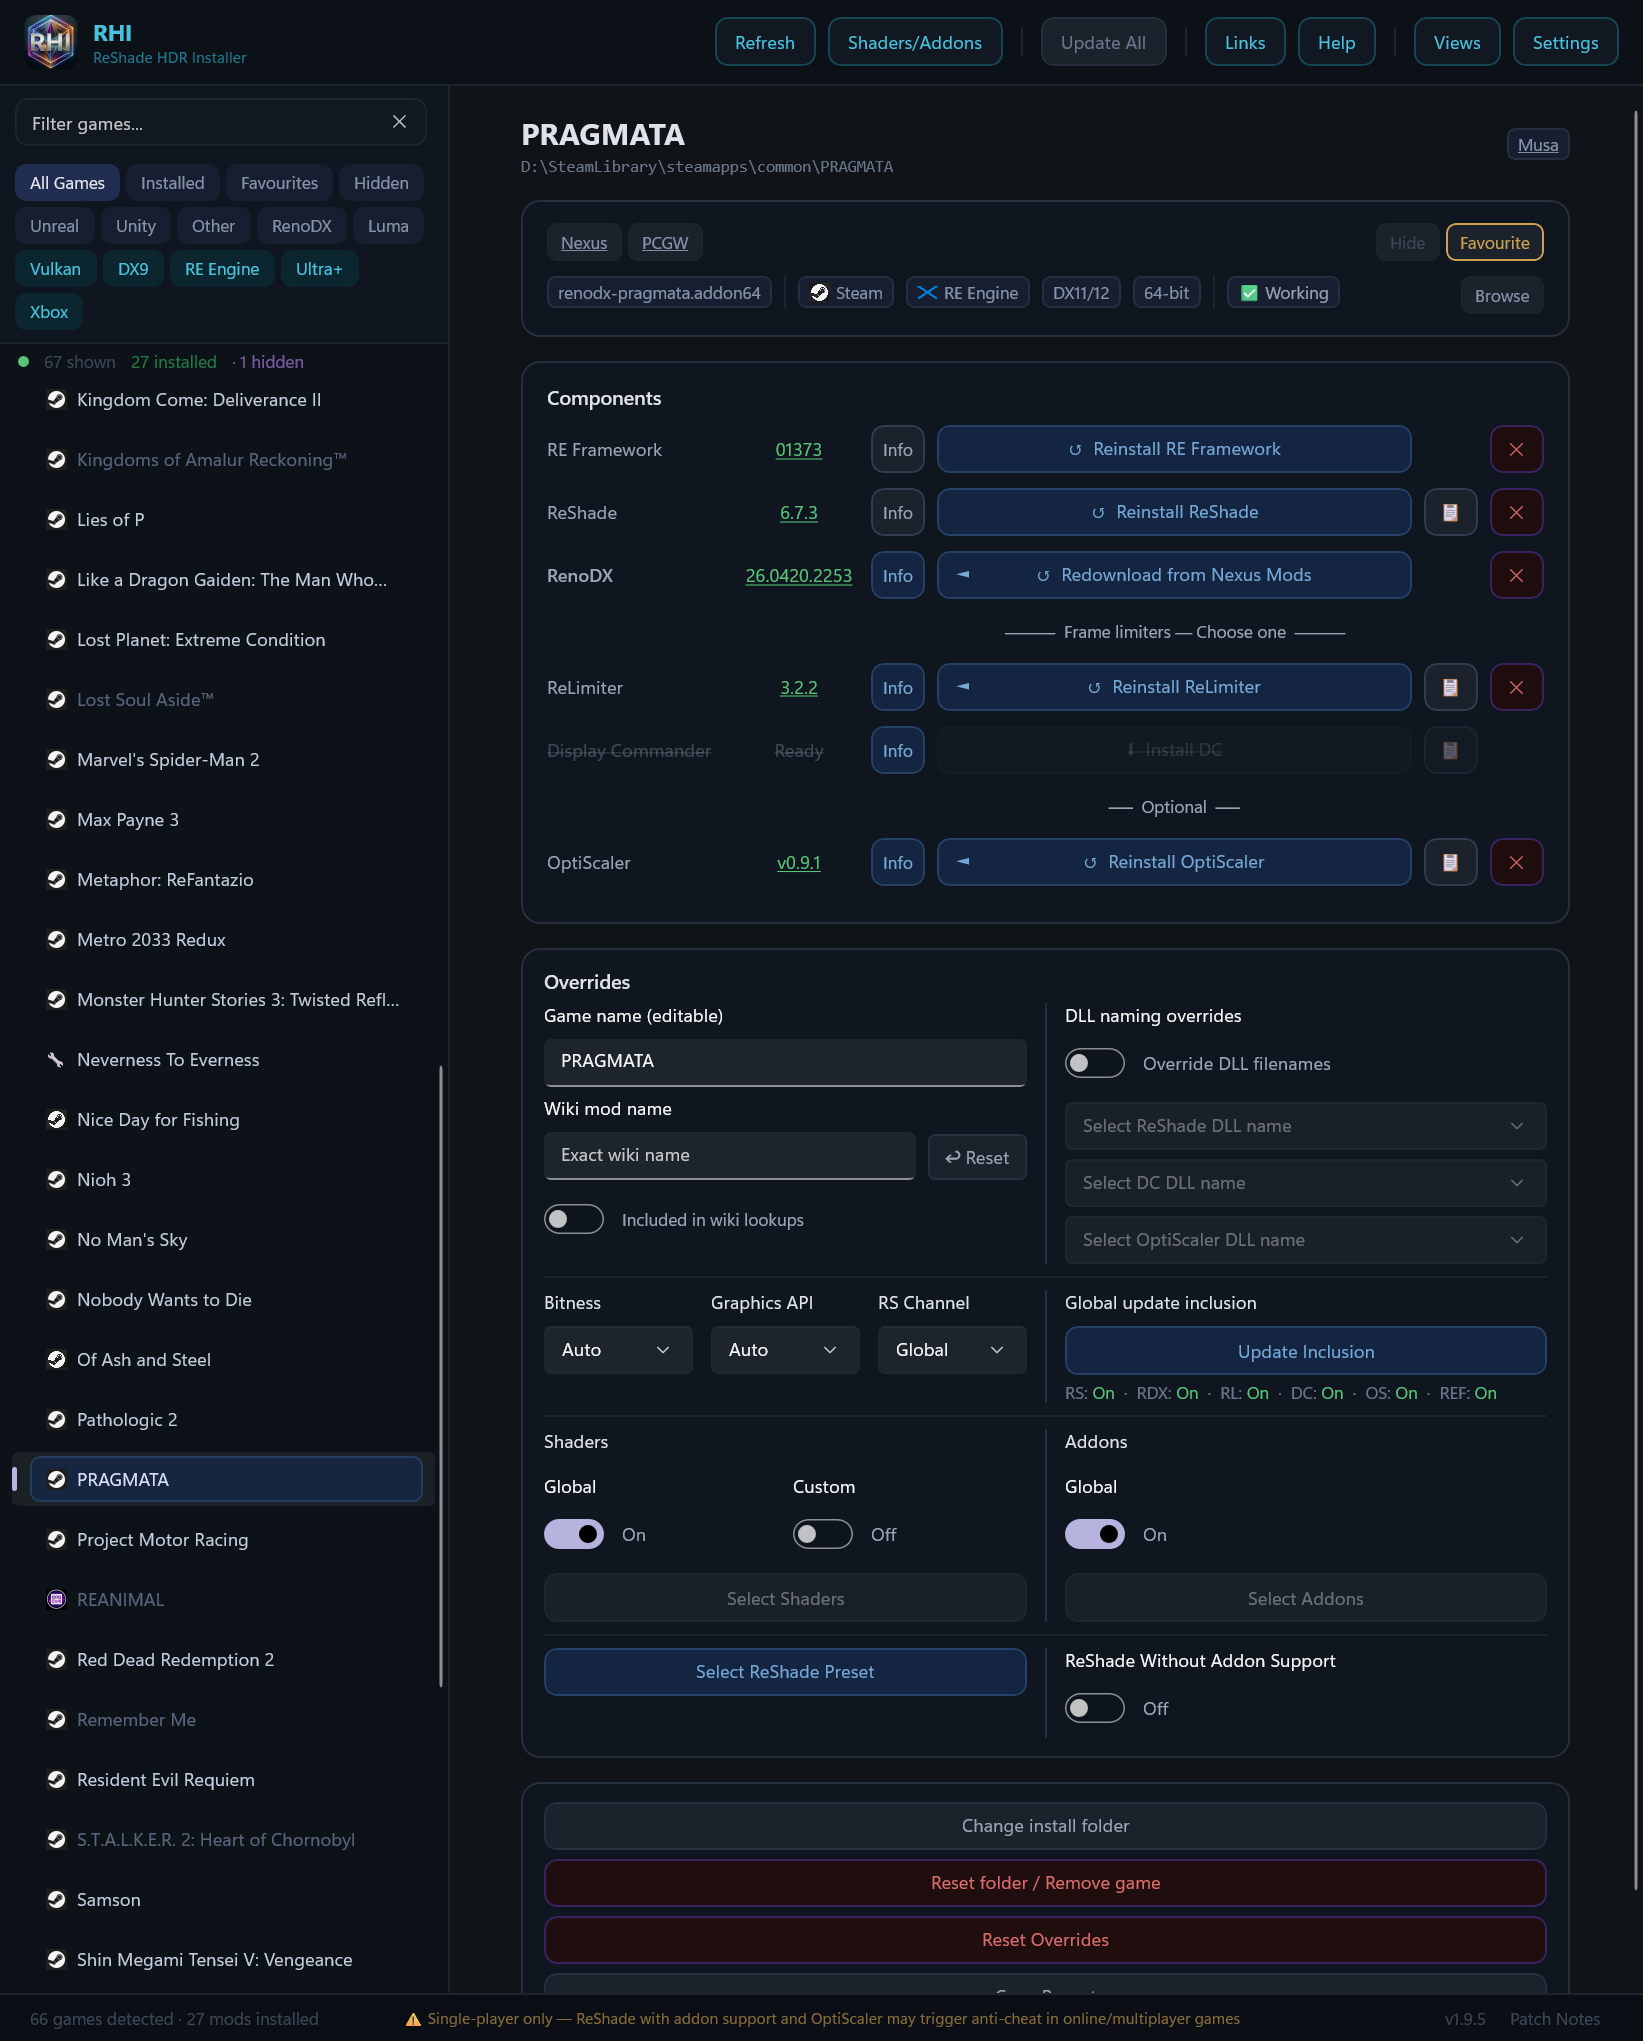
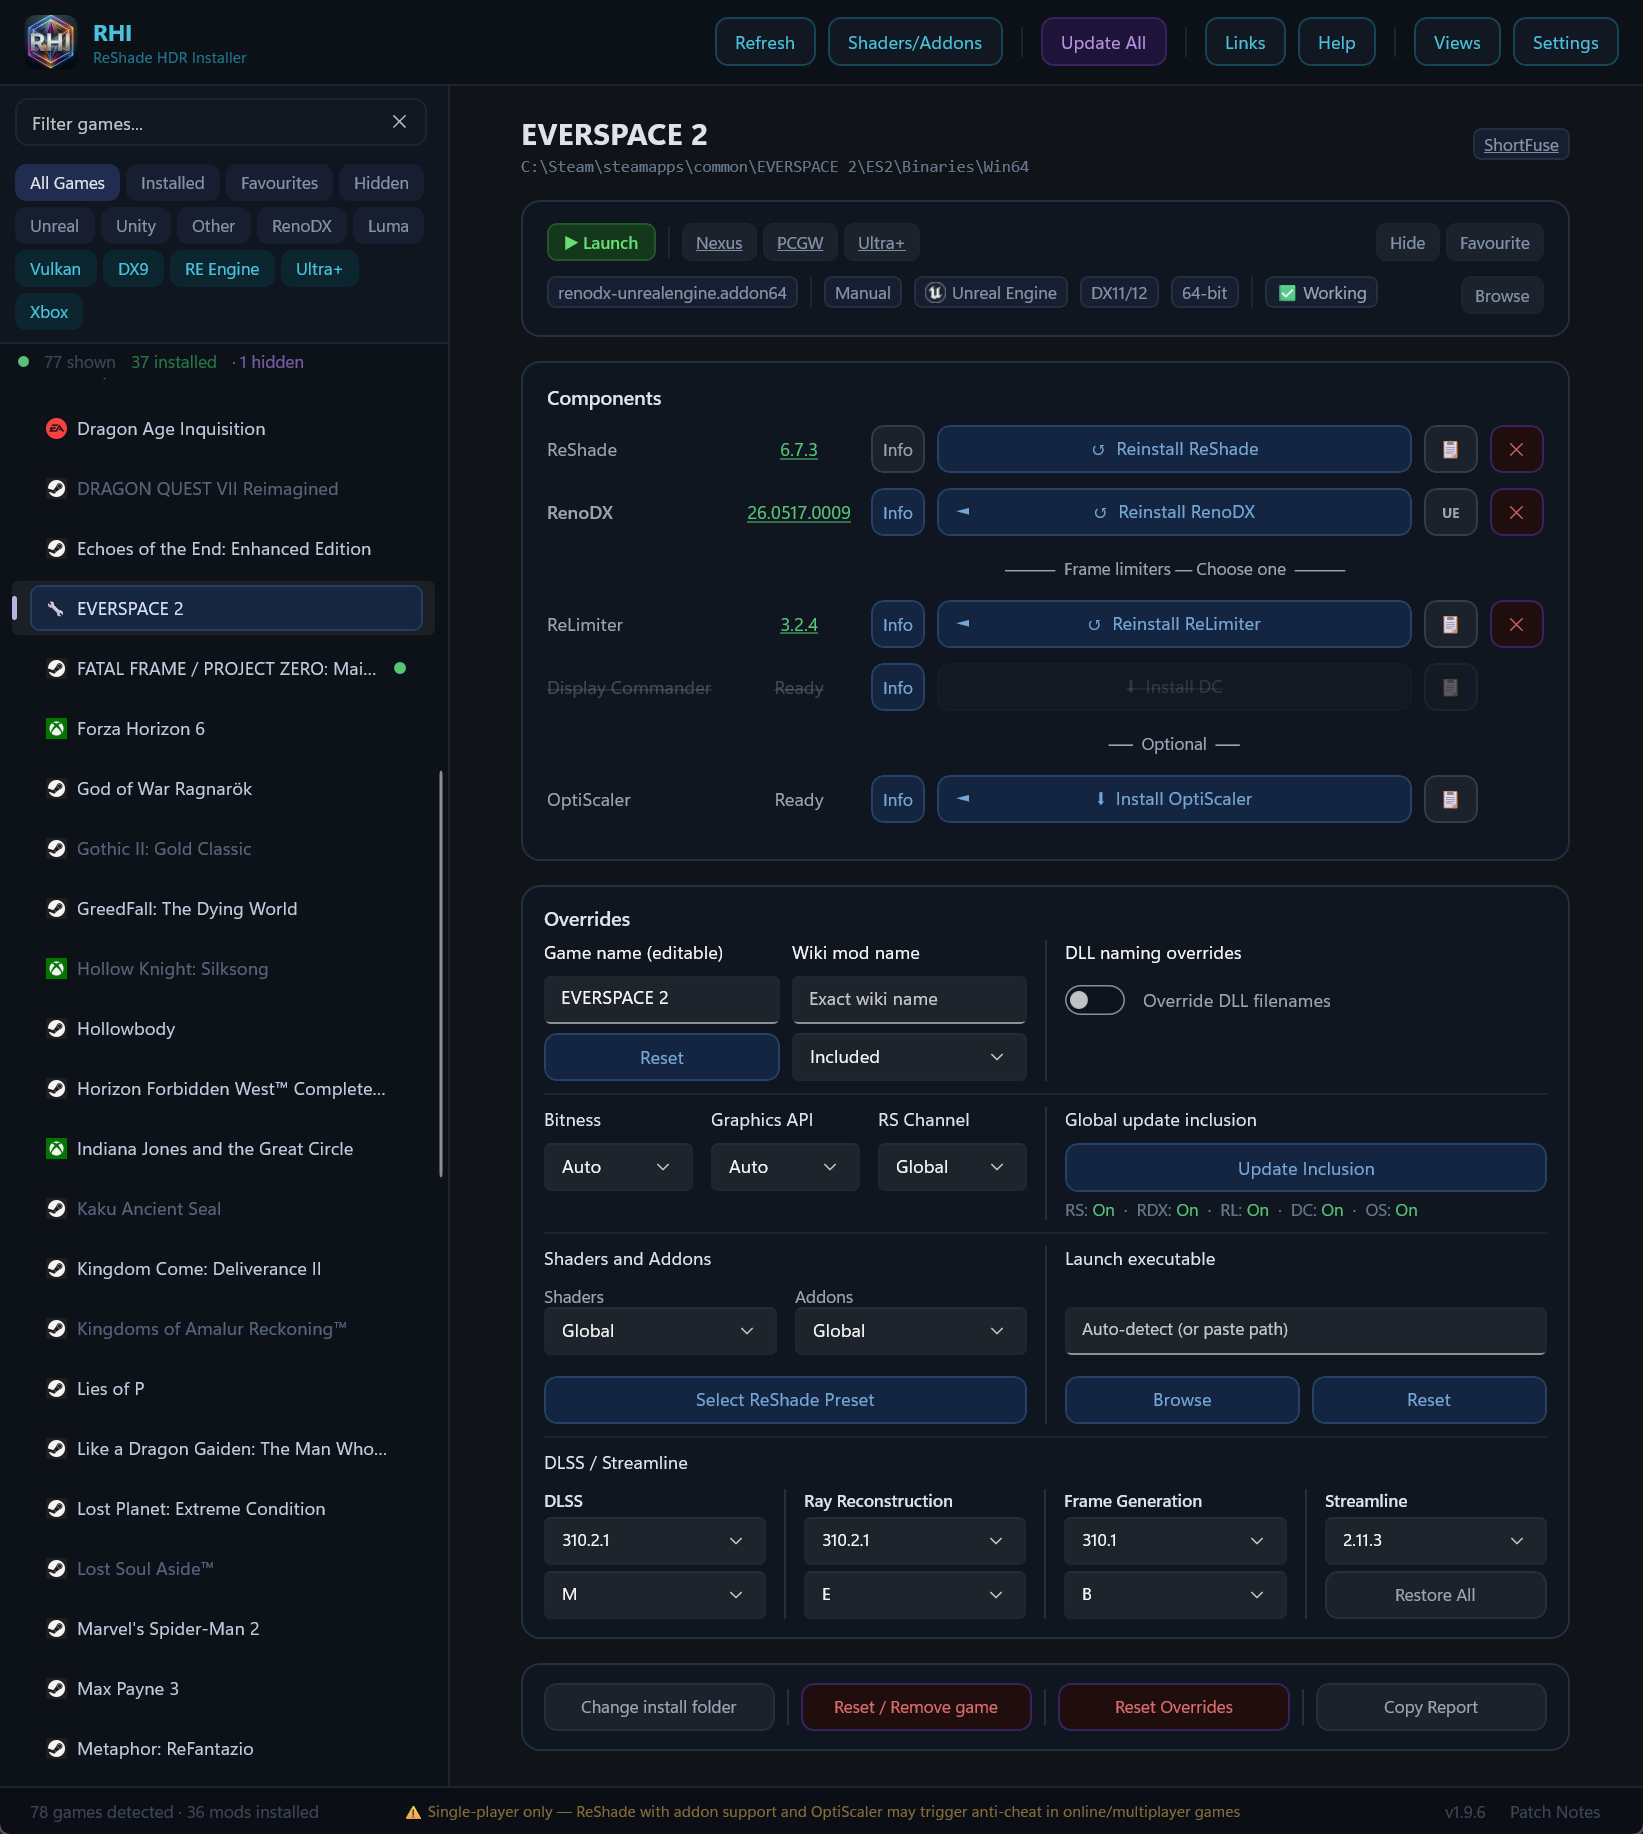
Fix: update exclusion respected, debounce fix, docs updated with DLSS feature

diff --git a/RenoDXCommander/MainWindow.xaml.cs b/RenoDXCommander/MainWindow.xaml.cs
@@ -300,30 +300,8 @@ public sealed partial class MainWindow : Window
                     ScrollToCard(card);
                     break;
                 case ViewLayout.Detail:
-                    // Debounce detail panel rebuild — wait 80ms after last selection change
-                    _pendingSelectionCard = card;
-                    if (_selectionDebounceTimer == null)
-                    {
-                        _selectionDebounceTimer = new DispatcherTimer { Interval = TimeSpan.FromMilliseconds(150) };
-                        _selectionDebounceTimer.Tick += (s, ev) =>
-                        {
-                            _selectionDebounceTimer.Stop();
-                            var target = _pendingSelectionCard;
-                            if (target != null && target == ViewModel.SelectedGame)
-                            {
-                                PopulateDetailPanel(target);
-                                DetailPanel.Visibility = Visibility.Visible;
-                                BuildOverridesPanel(target);
-                                OverridesContainer.Visibility = Visibility.Visible;
-                                ManagementContainer.Visibility = Visibility.Visible;
-                            }
-                        };
-                    }
-                    _selectionDebounceTimer.Stop();
-                    _selectionDebounceTimer.Start();
-                    break;
                 case ViewLayout.Compact:
-                    // Debounce compact page rebuild — same pattern as Detail mode
+                    // Debounce panel rebuild for both Detail and Compact modes
                     _pendingSelectionCard = card;
                     if (_selectionDebounceTimer == null)
                     {
@@ -334,8 +312,19 @@ public sealed partial class MainWindow : Window
                             var target = _pendingSelectionCard;
                             if (target != null && target == ViewModel.SelectedGame)
                             {
-                                _compactViewBuilder?.RebuildCurrentPage(
-                                    target, ViewModel.CompactPageIndex);
+                                if (ViewModel.CurrentViewLayout == ViewLayout.Detail)
+                                {
+                                    PopulateDetailPanel(target);
+                                    DetailPanel.Visibility = Visibility.Visible;
+                                    BuildOverridesPanel(target);
+                                    OverridesContainer.Visibility = Visibility.Visible;
+                                    ManagementContainer.Visibility = Visibility.Visible;
+                                }
+                                else if (ViewModel.CurrentViewLayout == ViewLayout.Compact)
+                                {
+                                    _compactViewBuilder?.RebuildCurrentPage(
+                                        target, ViewModel.CompactPageIndex);
+                                }
                             }
                         };
                     }

diff --git a/RenoDXCommander/ViewModels/MainViewModel.Init.cs b/RenoDXCommander/ViewModels/MainViewModel.Init.cs
@@ -392,19 +392,19 @@ public partial class MainViewModel
             {
                 if (prevUpdateStatus.TryGetValue(c.GameName, out var prev))
                 {
-                    if (prev.mod == GameStatus.UpdateAvailable && c.Status == GameStatus.Installed)
+                    if (prev.mod == GameStatus.UpdateAvailable && c.Status == GameStatus.Installed && !c.ExcludeFromUpdateAllRenoDx)
                         c.Status = GameStatus.UpdateAvailable;
-                    if (prev.rs == GameStatus.UpdateAvailable && c.RsStatus == GameStatus.Installed)
+                    if (prev.rs == GameStatus.UpdateAvailable && c.RsStatus == GameStatus.Installed && !c.ExcludeFromUpdateAllReShade)
                         c.RsStatus = GameStatus.UpdateAvailable;
-                    if (prev.dc == GameStatus.UpdateAvailable && c.DcStatus == GameStatus.Installed)
+                    if (prev.dc == GameStatus.UpdateAvailable && c.DcStatus == GameStatus.Installed && !c.ExcludeFromUpdateAllDc)
                         c.DcStatus = GameStatus.UpdateAvailable;
-                    if (prev.ul == GameStatus.UpdateAvailable && c.UlStatus == GameStatus.Installed)
+                    if (prev.ul == GameStatus.UpdateAvailable && c.UlStatus == GameStatus.Installed && !c.ExcludeFromUpdateAllUl)
                         c.UlStatus = GameStatus.UpdateAvailable;
-                    if (prev.refFw == GameStatus.UpdateAvailable && c.RefStatus == GameStatus.Installed)
+                    if (prev.refFw == GameStatus.UpdateAvailable && c.RefStatus == GameStatus.Installed && !c.ExcludeFromUpdateAllRef)
                         c.RefStatus = GameStatus.UpdateAvailable;
-                    if (prev.os == GameStatus.UpdateAvailable && c.OsStatus == GameStatus.Installed)
+                    if (prev.os == GameStatus.UpdateAvailable && c.OsStatus == GameStatus.Installed && !c.ExcludeFromUpdateAllOs)
                         c.OsStatus = GameStatus.UpdateAvailable;
-                    if (prev.dxvk == GameStatus.UpdateAvailable && c.DxvkStatus == GameStatus.Installed)
+                    if (prev.dxvk == GameStatus.UpdateAvailable && c.DxvkStatus == GameStatus.Installed && !c.ExcludeFromUpdateAllDxvk)
                         c.DxvkStatus = GameStatus.UpdateAvailable;
                 }
             }
@@ -2195,13 +2195,13 @@ public partial class MainViewModel
                 {
                     switch (flag.Trim())
                     {
-                        case "RDX":  if (newCard.Status != GameStatus.NotInstalled) newCard.Status = GameStatus.UpdateAvailable; break;
-                        case "RS":   if (newCard.RsStatus != GameStatus.NotInstalled) newCard.RsStatus = GameStatus.UpdateAvailable; break;
-                        case "UL":   if (newCard.UlStatus != GameStatus.NotInstalled) newCard.UlStatus = GameStatus.UpdateAvailable; break;
-                        case "DC":   if (newCard.DcStatus != GameStatus.NotInstalled) newCard.DcStatus = GameStatus.UpdateAvailable; break;
-                        case "OS":   if (newCard.OsStatus != GameStatus.NotInstalled) newCard.OsStatus = GameStatus.UpdateAvailable; break;
-                        case "REF":  if (newCard.RefStatus != GameStatus.NotInstalled) newCard.RefStatus = GameStatus.UpdateAvailable; break;
-                        case "DXVK": if (newCard.DxvkStatus != GameStatus.NotInstalled) newCard.DxvkStatus = GameStatus.UpdateAvailable; break;
+                        case "RDX":  if (newCard.Status != GameStatus.NotInstalled && !newCard.ExcludeFromUpdateAllRenoDx) newCard.Status = GameStatus.UpdateAvailable; break;
+                        case "RS":   if (newCard.RsStatus != GameStatus.NotInstalled && !newCard.ExcludeFromUpdateAllReShade) newCard.RsStatus = GameStatus.UpdateAvailable; break;
+                        case "UL":   if (newCard.UlStatus != GameStatus.NotInstalled && !newCard.ExcludeFromUpdateAllUl) newCard.UlStatus = GameStatus.UpdateAvailable; break;
+                        case "DC":   if (newCard.DcStatus != GameStatus.NotInstalled && !newCard.ExcludeFromUpdateAllDc) newCard.DcStatus = GameStatus.UpdateAvailable; break;
+                        case "OS":   if (newCard.OsStatus != GameStatus.NotInstalled && !newCard.ExcludeFromUpdateAllOs) newCard.OsStatus = GameStatus.UpdateAvailable; break;
+                        case "REF":  if (newCard.RefStatus != GameStatus.NotInstalled && !newCard.ExcludeFromUpdateAllRef) newCard.RefStatus = GameStatus.UpdateAvailable; break;
+                        case "DXVK": if (newCard.DxvkStatus != GameStatus.NotInstalled && !newCard.ExcludeFromUpdateAllDxvk) newCard.DxvkStatus = GameStatus.UpdateAvailable; break;
                         case "LUMA": if (newCard.LumaStatus != GameStatus.NotInstalled) newCard.LumaStatus = GameStatus.UpdateAvailable; break;
                     }
                 }

diff --git a/docs/DETAILED_GUIDE.md b/docs/DETAILED_GUIDE.md
@@ -16,6 +16,7 @@ This document covers every feature in RHI. For a quick overview, see the [README
 - [RE Framework](#re-framework)
 - [Luma Framework](#luma-framework)
 - [Frame Rate Limiters](#frame-rate-limiters)
+- [DLSS & Streamline Manager](#dlss--streamline-manager)
 - [OptiScaler](#optiscaler)
 - [Shader Packs](#shader-packs)
 - [ReShade Addon Management](#reshade-addon-management)
@@ -378,6 +379,62 @@ An alternative frame rate limiter, also downloaded from GitHub.
 
 ---
 
+## DLSS & Streamline Manager
+
+RHI includes a full DLSS and Streamline version manager in the Overrides panel. For any game with DLSS or Streamline DLLs detected, the "DLSS / Streamline" row appears with per-component dropdowns.
+
+### Version Swapping
+
+- **DLSS SR** (`nvngx_dlss.dll`) — choose any version independently
+- **DLSS RR** (`nvngx_dlssd.dll`) — choose any version independently
+- **DLSS FG** (`nvngx_dlssg.dll`) — choose any version independently
+- **Streamline** (`sl.*.dll`) — all files updated as a set
+
+Versions are downloaded on-demand from `dlss_manifest.json` (hosted on `RankFTW/RHI`) and cached locally at `%LocalAppData%\RHI\DLSS\{version}\`, `DLSS-D\{version}\`, `DLSS-G\{version}\`, and `Streamline\{version}\`.
+
+### Backups & Restore
+
+The original game DLL is backed up with `.original` extension before swapping. Select "Default" from the dropdown to restore the original. "Restore All" reverts all components and resets presets.
+
+For Streamline, only files already present in the game folder are replaced — RHI never adds files that weren't there originally.
+
+### DLSS Presets
+
+Set per-game DLSS presets directly from RHI via the NVIDIA Driver Settings API (NVAPI):
+
+| Component | Available Presets |
+|-----------|------------------|
+| SR | Default, J, K, L, M |
+| RR | Default, D, E |
+| FG | Default, A, B |
+
+Changes apply instantly to the NVIDIA driver profile. No NVIDIA Profile Inspector needed. Silently no-ops on AMD/Intel systems.
+
+### Custom Files
+
+Place your own DLLs in the custom folders and select "Custom" from the dropdown:
+- `%LocalAppData%\RHI\DLSS-Custom\nvngx_dlss.dll`
+- `%LocalAppData%\RHI\Streamline-Custom\sl.*.dll`
+
+### Smart Detection
+
+RHI recursively searches game folders for DLSS and Streamline DLLs regardless of folder structure. Handles:
+- Unreal Engine (`Engine\Plugins\Runtime\Nvidia\...`)
+- CryEngine (`Bin\Win64Shared`)
+- WindowsApps packages
+- Any other layout
+
+Correctly distinguishes game DLSS files from OptiScaler's bridging copies (skips folders containing `OptiScaler.ini`).
+
+Detection results are cached in two tiers:
+1. **Trusted path cache** — after 3 confirmations at the same path, future scans use direct `File.Exists` checks (~1ms vs 1-4s recursive scan)
+2. **Skip cache** — games scanned 3 times with no DLSS found are auto-exempted from future scans
+
+---
+
+
+---
+
 ## OptiScaler
 
 [OptiScaler](https://github.com/optiscaler/OptiScaler) is a 64-bit middleware DLL that intercepts upscaler calls (DLSS, FSR, XeSS) and redirects them to alternative backends. RHI manages the full lifecycle: download, staging, install, uninstall, update detection, INI configuration, ReShade coexistence, DLL naming, and hotkey setup.
@@ -398,7 +455,7 @@ Game-owned files are backed up to `.original` before overwriting and restored on
 
 ### DLSS Auto-Download
 
-The latest NVIDIA DLSS Super Resolution, Ray Reconstruction, and Frame Generation DLLs are automatically downloaded and staged on startup, sourced from the DLSS Swapper manifest. Each DLL has independent version tracking and auto-updates.
+The latest NVIDIA DLSS Super Resolution, Ray Reconstruction, and Frame Generation DLLs are automatically downloaded and staged on startup from the RHI DLSS manifest (`dlss_manifest.json` hosted on GitHub). Each DLL has independent version tracking. OptiScaler uses the newest cached version automatically.
 
 ### OptiPatcher
 
@@ -884,7 +941,16 @@ Everything is stored under `%LOCALAPPDATA%\RHI\`:
 | `downloads\` | Cached downloads organised into subdirectories: `shaders/`, `renodx/`, `framelimiter/`, `luma/`, `misc/`. |
 | `optiscaler\` | Staged OptiScaler release (DLL, companion files, INI, version tag). |
 | `optipatcher\` | Staged OptiPatcher release. |
-| `dlss\` | Staged DLSS DLLs with independent version files. |
+| `dlss\` | Legacy DLSS staging (deprecated — replaced by versioned cache below). |
+| `DLSS\{version}\` | Versioned DLSS SR cache (e.g. `DLSS\310.6.0\nvngx_dlss.dll`). |
+| `DLSS-D\{version}\` | Versioned DLSS RR cache. |
+| `DLSS-G\{version}\` | Versioned DLSS FG cache. |
+| `Streamline\{version}\` | Versioned Streamline cache (all `sl.*.dll` files). |
+| `DLSS-Custom\` | User-provided custom DLSS DLL. |
+| `Streamline-Custom\` | User-provided custom Streamline DLLs. |
+| `dlss_manifest.json` | Cached DLSS/Streamline version manifest. |
+| `dlss_scan_cache.json` | Games confirmed to have no DLSS (auto-skip after 3 scans). |
+| `dlss_trusted_paths.json` | Confirmed DLL paths for fast detection (skip recursive scan). |
 | `addons\` | Downloaded ReShade addon files and `versions.json`. |
 | `addons_cache.ini` | Cached Addons.ini for offline fallback. |
 | `inis\` | Preset config files (`reshade.ini`, `reshade.vulkan.ini`, `relimiter.ini`, `DisplayCommander.ini`, `OptiScaler.ini`, etc.) and `reshade-presets\` subfolder. |

diff --git a/README.md b/README.md
@@ -15,6 +15,7 @@ One app to manage HDR mods across your entire PC game library. RHI auto-detects 
 - **42 shader packs** — global or per-game shader selection with automatic dependency resolution.
 - **Drag-and-drop** — drop an .exe to add a game, drop a mod to install it, drop a preset to deploy it with auto shader install.
 - **OptiScaler built in** — upscaler redirection (DLSS/FSR/XeSS) with automatic DLSS DLL downloads, ReShade coexistence, and INI management.
+- **DLSS & Streamline Manager** — swap DLSS SR, Ray Reconstruction, and Frame Generation independently to any version. Update or downgrade Streamline as a set. Set DLSS presets per-game (J, K, L, M for SR; D, E for RR; A, B for FG) without NVIDIA Profile Inspector.
 - **UW Fix & Ultra+ links** — quick links to ultrawide fixes and Ultra+ mods appear right on game cards when available.
 - **Game Launch** — launch games directly from RHI. Steam games launch through Steam (with overlay and playtime tracking), everything else launches directly. Set a custom exe per game in Overrides.
 - **Nexus Mods Update Alerts** — automatic update detection for Nexus-hosted mods. No API key needed.

diff --git a/RenoDXCommander/RHI_PatchNotes.md b/RenoDXCommander/RHI_PatchNotes.md
@@ -13,6 +13,7 @@
 - Fixed compact view becoming unresponsive when rapidly navigating with arrow keys. Added 150ms selection debounce to prevent UI thread overload from rapid panel rebuilds.
 - Fixed unnecessary UAC/admin prompt during Update All for users with Vulkan games. The Vulkan ReShade layer was being recopied to ProgramData on every run even when already up to date.
 - Fixed manually-installed RenoDX addons (e.g. from Nexus Mods) not being detected after a normal Refresh. The addon file cache was trusting stale "no addon" entries instead of rechecking.
+- Fixed per-game update exclusions not being respected. Games with specific components excluded from Update All (via Update Inclusion dialog) were still showing purple update indicators.
 
 ### OptiScaler Integration
 